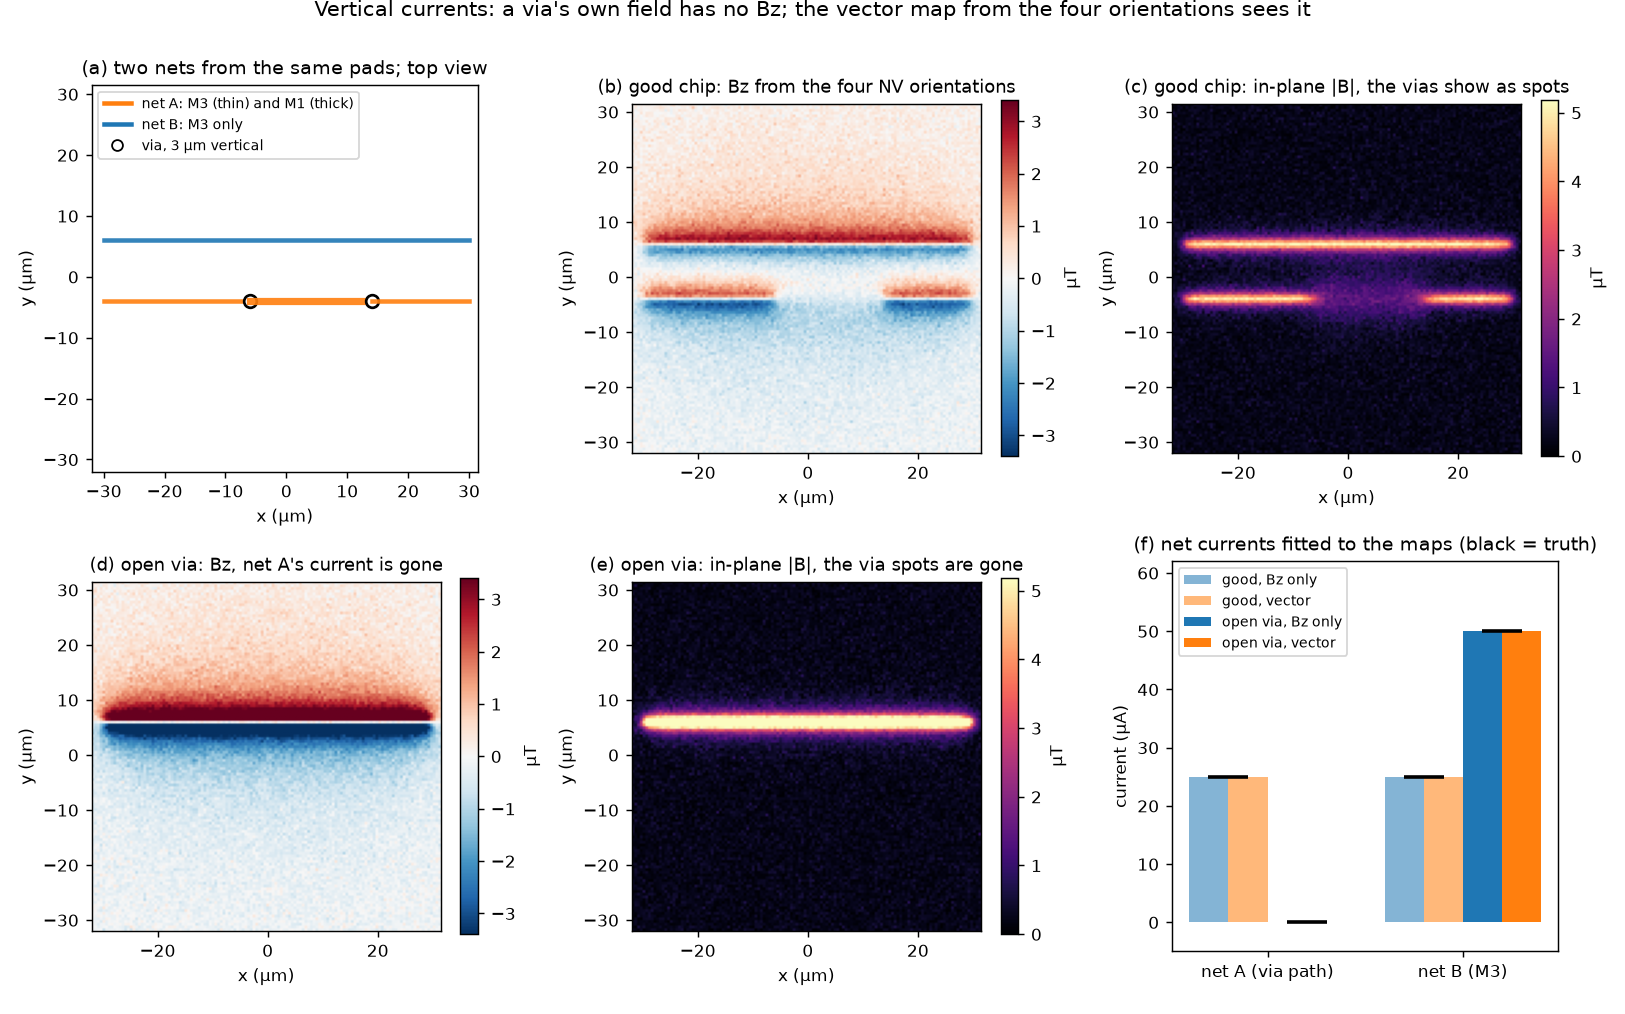
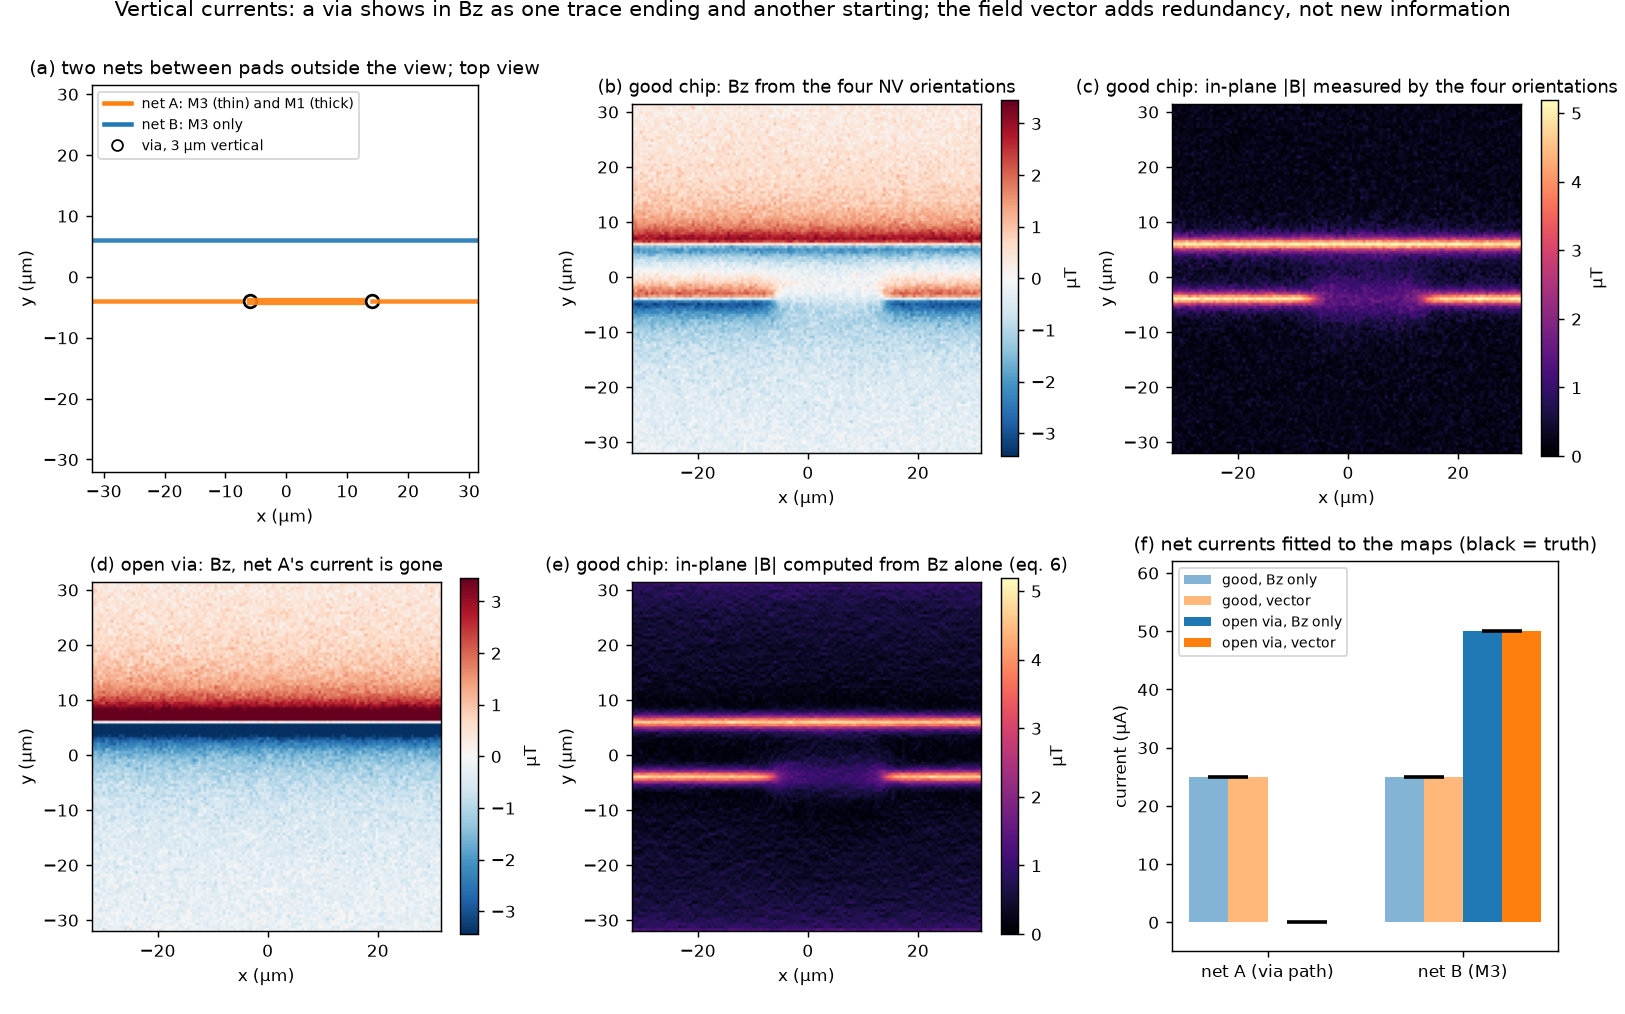
Vertical currents: Bz determines the in-plane field above all sources (checked numerically); the vector adds redundancy and edge information, not a via detector

diff --git a/qdm/segments.py b/qdm/segments.py
@@ -2,8 +2,12 @@
 vector they produce at the NV plane; the vector as the four NV orientations measure it; and
 the fit of net currents to the vector field.
 
-A vertical segment produces a purely azimuthal field: no Bz at all. That is why a via is
-invisible to a Bz-only map and why the vector matters for packaging problems.
+A vertical segment on its own produces a purely azimuthal field, no Bz at all. But a segment
+on its own is not a current: in a closed circuit the via is written into Bz as the end of one
+trace and the start of another at a different depth. Above all sources the field is a potential
+field, so Bz alone fixes the in-plane components (hilbert_inplane); the four NV orientations
+therefore add redundancy against noise and information at the edges of a finite field of view,
+not a new view of vias. The model checks that claim numerically (hilbert_residual).
 """
 from __future__ import annotations
 
@@ -49,8 +53,10 @@ def connectivity_scene(d1_um=1.0, d2_um=4.0):
     NV layer, metals at -d1 (M3) and -d2 (M1). Points are offset in y so the paths are distinct."""
     u = 1e-6
     z3, z1 = -d1_um * u, -d2_um * u
-    net_a = [(-30 * u, -4 * u, z3), (-6 * u, -4 * u, z3), (-6 * u, -4 * u, z1), (14 * u, -4 * u, z1), (14 * u, -4 * u, z3), (30 * u, -4 * u, z3)]
-    net_b = [(-30 * u, 6 * u, z3), (30 * u, 6 * u, z3)]
+    # the pads sit well outside the 64 um field of view, so that inside it every wire end is a via and
+    # not a place where current appears from nowhere (which the vertical signature would also flag)
+    net_a = [(-90 * u, -4 * u, z3), (-6 * u, -4 * u, z3), (-6 * u, -4 * u, z1), (14 * u, -4 * u, z1), (14 * u, -4 * u, z3), (90 * u, -4 * u, z3)]
+    net_b = [(-90 * u, 6 * u, z3), (90 * u, 6 * u, z3)]
     return {"A: M3 → via → M1 → via → M3": net_a, "B: M3 straight": net_b}
 
 
@@ -84,3 +90,27 @@ def fit_net_currents(measured, templates):
     A = np.stack([np.concatenate([t.ravel() for t in tpl]) for tpl in templates], axis=1)
     amps, *_ = np.linalg.lstsq(A, y, rcond=None)
     return amps
+
+
+def hilbert_inplane(bz, dx_m):
+    """The in-plane field that Bz implies above all sources: B is then a potential field whose
+    Fourier components decay upward as exp(-kz), so Bx(k) = -i kx/k Bz(k) and By(k) = -i ky/k Bz(k).
+    This holds for any closed current distribution below the plane, vias included."""
+    n = bz.shape[0]
+    k1 = 2 * np.pi * np.fft.fftfreq(n, d=dx_m)
+    kx, ky = np.meshgrid(k1, k1, indexing="xy")
+    k = np.hypot(kx, ky)
+    B = np.fft.fft2(bz)
+    with np.errstate(divide="ignore", invalid="ignore"):
+        Bx = -1j * kx / k * B
+        By = -1j * ky / k * B
+    Bx[k == 0] = 0; By[k == 0] = 0
+    return np.real(np.fft.ifft2(Bx)), np.real(np.fft.ifft2(By))
+
+
+def hilbert_residual(bx, by, bz, dx_m):
+    """|measured in-plane field - in-plane field predicted from Bz|. For a closed circuit it is a
+    finite-window artifact that shrinks as the window grows (0.2 % of the field at +-128 um for
+    the scene of figure 8); it is not a via detector, which was this model's first, wrong idea."""
+    px, py = hilbert_inplane(bz, dx_m)
+    return np.hypot(bx - px, by - py)

diff --git a/scripts/fig_vector.py b/scripts/fig_vector.py
@@ -38,15 +38,16 @@ for (name, pts), col in zip(nets.items(), ("C1", "C0")):
         if abs(p[2] - q[2]) > 1e-9: a.plot(p[0], p[1], "o", color="k", ms=7, mfc="w", mew=1.5)
         else: a.plot([p[0], q[0]], [p[1], q[1]], color=col, lw=4 if p[2] < -2e-6 * 1e6 else 2.5, alpha=0.9)
 a.plot([], [], color="C1", lw=2.5, label="net A: M3 (thin) and M1 (thick)"); a.plot([], [], color="C0", lw=2.5, label="net B: M3 only"); a.plot([], [], "o", color="k", mfc="w", label="via, 3 µm vertical")
-a.set(title="(a) two nets from the same pads; top view", xlim=ext[:2], ylim=ext[2:], xlabel="x (µm)", ylabel="y (µm)"); a.set_aspect("equal"); a.legend(loc="upper left", fontsize=7.5)
+a.set(title="(a) two nets between pads outside the view; top view", xlim=ext[:2], ylim=ext[2:], xlabel="x (µm)", ylabel="y (µm)"); a.set_aspect("equal"); a.legend(loc="upper left", fontsize=7.5)
 vm = np.abs(gz).max() * 1e6
 def show(a, m, title, cmap="RdBu_r", vmax=None):
     im = a.imshow(m * 1e6, extent=ext, origin="lower", cmap=cmap, vmin=-vmax if cmap == "RdBu_r" else 0, vmax=vmax); a.set_title(title, fontsize=10); a.set(xlabel="x (µm)", ylabel="y (µm)")
     fig.colorbar(im, ax=a, label="µT", fraction=0.046)
 show(ax[0, 1], gz, "(b) good chip: Bz from the four NV orientations", vmax=vm)
-show(ax[0, 2], np.hypot(gx, gy), "(c) good chip: in-plane |B|, the vias show as spots", cmap="magma", vmax=np.hypot(tx, ty).max() * 1e6)
+hx, hy = segments.hilbert_inplane(gz, dx * 1e-6); vmx = np.hypot(tx, ty).max() * 1e6
+show(ax[0, 2], np.hypot(gx, gy), "(c) good chip: in-plane |B| measured by the four orientations", cmap="magma", vmax=vmx)
 show(ax[1, 0], oz, "(d) open via: Bz, net A's current is gone", vmax=vm)
-show(ax[1, 1], np.hypot(ox, oy), "(e) open via: in-plane |B|, the via spots are gone", cmap="magma", vmax=np.hypot(tx, ty).max() * 1e6)
+show(ax[1, 1], np.hypot(hx, hy), "(e) good chip: in-plane |B| computed from Bz alone (eq. 6)", cmap="magma", vmax=vmx)
 a = ax[1, 2]
 res = {}
 for lab, (bxm, bym, bzm) in (("good", (gx, gy, gz)), ("open via", (ox, oy, oz))):
@@ -59,6 +60,6 @@ for i, (lab, truth) in enumerate((("good", GOOD), ("open via", OPEN))):
         a.bar(xs + (2 * i + j - 1.5) * w, v, w, color=f"C{j}", alpha=0.55 + 0.45 * i, label=f"{lab}, {meth}")
     a.plot(xs + (2 * i - 1) * w, np.array(truth) * 1e6, "k_", ms=22, mew=2)
 a.set(title="(f) net currents fitted to the maps (black = truth)", xticks=xs, xticklabels=["net A (via path)", "net B (M3)"], ylabel="current (µA)", ylim=(-5, 62)); a.legend(fontsize=7.5, loc="upper left")
-fig.suptitle("Vertical currents: a via's own field has no Bz; the vector map from the four orientations sees it", y=1.0)
+fig.suptitle("Vertical currents: a via shows in Bz as one trace ending and another starting; the field vector adds redundancy, not new information", y=1.0)
 fig.tight_layout(); fig.savefig(OUT / "fig8_vector.png"); print("fig8")
 for k, v in res.items(): print(k, np.round(v * 1e6, 1))

diff --git a/tests/test_physics.py b/tests/test_physics.py
@@ -96,3 +96,19 @@ def test_long_wire_limit():
     X, Y = np.meshgrid(np.array([0.0]), np.array([2e-6]))
     bx, by, bz = segments.segment_field((-1.0, 0, 0), (1.0, 0, 0), 1e-3, X, Y, 0.0)   # 2 m wire, 2 um away
     assert abs(bz[0, 0] - 4e-7 * np.pi * 1e-3 / (2 * np.pi * 2e-6)) / (4e-7 * np.pi * 1e-3 / (2 * np.pi * 2e-6)) < 1e-6
+
+
+def test_bz_determines_the_inplane_field_even_with_vias():
+    """Above all sources Bz fixes Bx and By (potential field): the residual of the Hilbert
+    prediction is a finite-window artifact that falls with window size, vias or not."""
+    from qdm import segments
+    u = 1e-6
+    path = [(-60*u,-4*u,-1*u),(-6*u,-4*u,-1*u),(-6*u,-4*u,-4*u),(14*u,-4*u,-4*u),(14*u,-4*u,-1*u),(60*u,-4*u,-1*u),(60*u,60*u,-1*u),(-60*u,60*u,-1*u),(-60*u,-4*u,-1*u)]
+    res = []
+    for n in (128, 256):
+        ax = (np.arange(n) - n // 2) * 0.5e-6
+        X, Y = np.meshgrid(ax, ax)
+        bx, by, bz = segments.path_field(path, 50e-6, X, Y, 0.0)
+        r = segments.hilbert_residual(bx, by, bz, 0.5e-6)
+        res.append(r[np.argmin(abs(ax + 4e-6)), np.argmin(abs(ax + 6e-6))] / np.hypot(bx, by).max())   # at the via
+    assert res[0] < 0.05 and res[1] < 0.01 and res[1] < res[0] / 3
